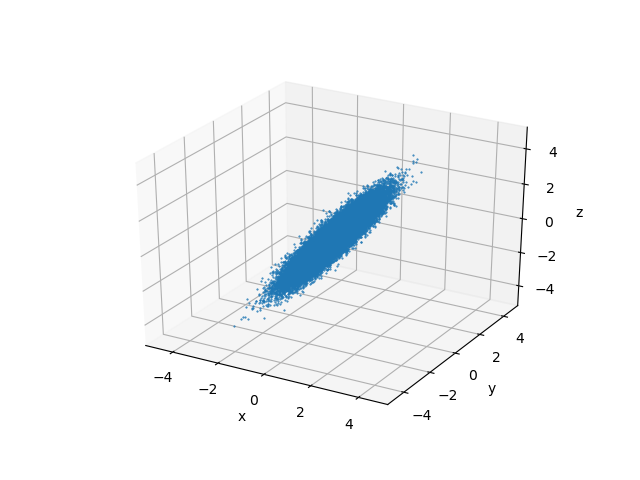
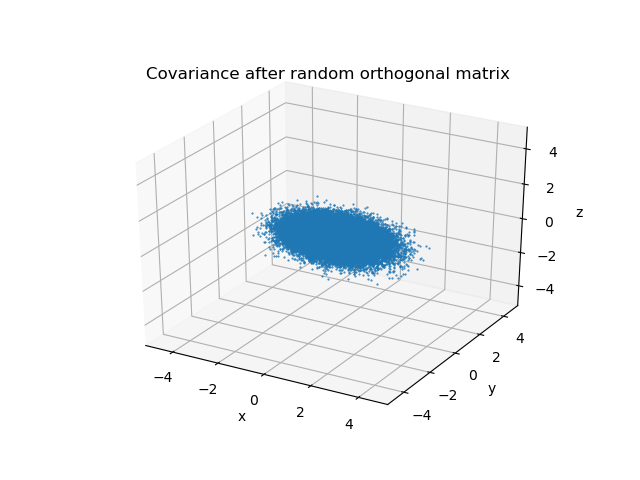
last commit (hoping)

Changed region(s): [[0.375, 0.3438, 0.6562, 0.6562], [0.2188, 0.125, 0.7812, 0.1875]]

diff --git a/ex1/3d_gausian.py b/ex1/3d_gausian.py
@@ -67,12 +67,14 @@ def plot_2d(x_y):
 def q_23():
     plot_3d(x_y_z)
     # plt.show()
+    plt.title('data representation')
     plt.savefig('q23.png')
 
 
 def q_24():
     plot_3d(scaled_matrix)
     # plt.show()
+    plt.title('Covariance after scaling')
     plt.savefig('q24.png')
     # the covariance matrix will look like S^2 now since the original was Id_3
     # scaled_covariance = scaled_matrix ** 2
@@ -83,6 +85,7 @@ def q_25():
     evd_decomposition = np.dot(random_orthogonal_matrix, scaled_matrix)
     plot_3d(evd_decomposition)
     # plt.show()
+    plt.title('Covariance after random orthogonal matrix')
     plt.savefig('q25.png')
     # the covariance matrix looks like the EVD decomposition of S^2
     # random_orthogonal_matrix * scaled_matrix ** 2 * random_orthogonal_matrix.T
@@ -92,6 +95,7 @@ def q_26():
     projection_onto_xy = np.dot(projection_matrix, scaled_matrix)
     plot_2d(projection_onto_xy)
     # plt.show()
+    plt.title('Projection onto xy axis')
     plt.savefig('q26.png')
     # it looks like the gaussian's mean
 
@@ -100,6 +104,7 @@ def q_27():
     ranged_pts = np.where((scaled_matrix[2, :] > -0.4) & (scaled_matrix[2, :] < 0.1))[0]
     points_within_range = np.take(scaled_matrix, ranged_pts, 1)
     plot_2d(np.dot(projection_matrix, points_within_range))
+    plt.title('Projection onto xy axis for all z in (-0.4,0.1)')
     # plt.show()
     plt.savefig('q27.png')
 
@@ -109,6 +114,9 @@ def q_29_a():
         plt.plot(means[i], label='X of row number ' + str(i + 1))
     plt.legend(bbox_to_anchor=(1, 1))
     # plt.show()
+    plt.title('Cumulative mean')
+    plt.xlabel('tosses')
+    plt.ylabel('mean')
     plt.savefig('q29_a.png')
     plt.close()
 
@@ -121,8 +129,10 @@ def q_29_b():
         plt.plot(hf_g, label='hoeffding bound')
         plt.plot(ch_g, label='chevyshev bound')
         plt.title('epsilon=' + str(epsilons[i]))
+        plt.ylabel('upper bound')
+        plt.xlabel('m tosses')
         plt.tight_layout()
-    plt.legend(bbox_to_anchor=(2.5, .75))
+    plt.legend(bbox_to_anchor=(1.2, .75))
     # plt.show()
     plt.savefig('q29_b.png')
     plt.close()
@@ -138,8 +148,11 @@ def q_29_c():
         plt.plot(hf_g, label='hoeffding bound')
         plt.plot(ch_g, label='chevyshev bound')
         plt.plot(pct_matrix, label='precentage')
+        plt.ylabel('upper bound')
+        plt.xlabel('m tosses')
         plt.title('epsilon=' + str(epsilons[i]))
-    plt.legend(bbox_to_anchor=(1, 1))
+        plt.subplots_adjust(wspace=0.3, hspace=0.5)
+    plt.legend(bbox_to_anchor=(1.2, .75))
     # plt.show()
     plt.savefig('q29_c.png')
 
